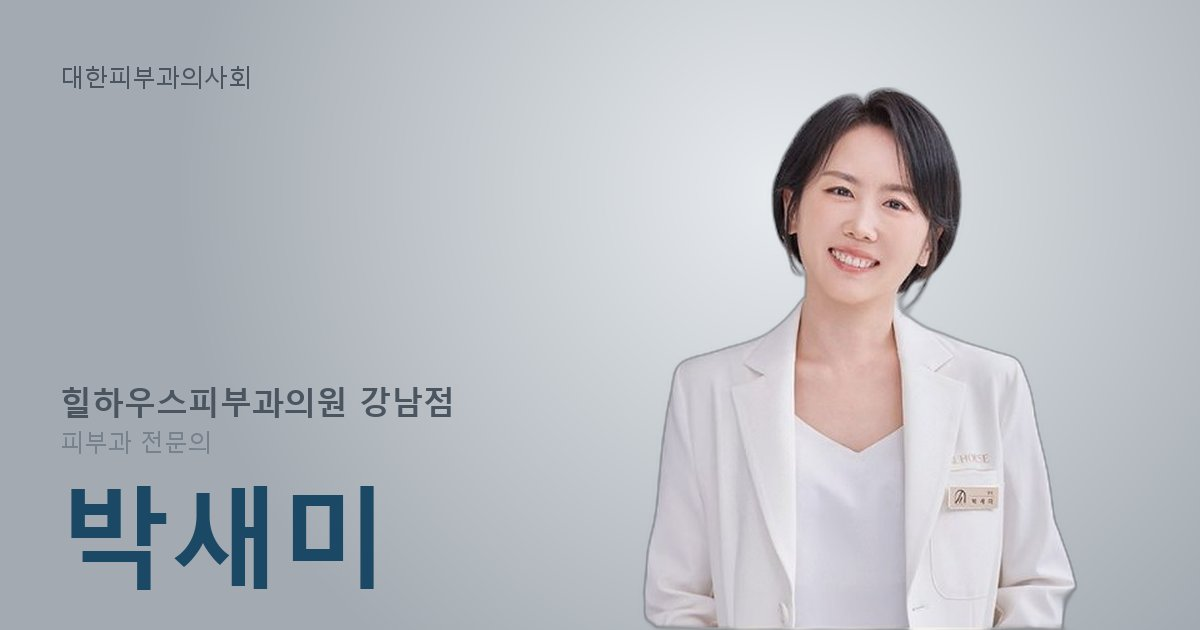
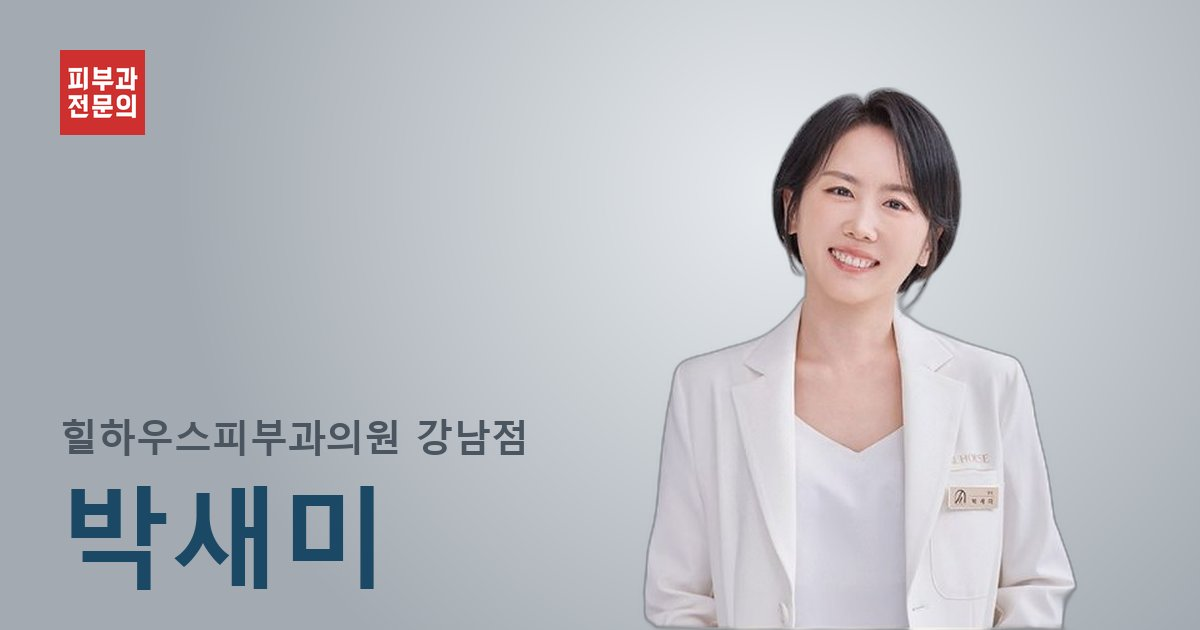
OG 이미지 디자인 개선 + 정한미 SNS 추가
OG 이미지 재디자인:
- 의사: 좌상단 텍스트 → 빨간 피부과 전문의 배지(85px), 병원명 키움, 이름 위치 조정
- 병원: 사용자 제공 흰색 AKD 로고 + 병원명만
- 홈: 밝은 배경 + AKD 로고만 (카피 텍스트 제거)

정한미 SNS 추가: 병원 홈페이지, 병원 인스타그램, 스레드

Changed region(s): [[0.0308, 0.6032, 0.4625, 0.7238], [0.0308, 0.0603, 0.2158, 0.2413]]

diff --git a/js/app.js b/js/app.js
@@ -357,8 +357,11 @@ const MEMBERS = [
     awards: [],
     treatments: ['스컬트라', '쥬브젠', '얼굴윤곽', '더엘주사', '필러', '주름', '탄력', '리프팅', '써마지', '울쎄라', '올타이트', '티타늄', '스킨부스터', '리바이브', '힐로웨이브', '레디어스', '고압산소', '여드름흉터', '문신제거'],
     links: [
+      { type: 'website', label: '병원 홈페이지', url: 'https://healhousegn.com/' },
+      { type: 'instagram', label: '병원 인스타그램', url: 'https://www.instagram.com/healhouseskin_gangnam' },
       { type: 'instagram', label: '인스타그램', url: 'https://www.instagram.com/jhanmi__' },
       { type: 'youtube', label: '유튜브', url: 'https://youtube.com/@pibutenten' },
+      { type: 'threads', label: '스레드', url: 'https://www.threads.com/@jhanmi__' },
       { type: 'website', label: '블로그', url: 'https://blog.naver.com/one_crafter' }
     ]
   },

diff --git a/clinic/foret/index.html b/clinic/foret/index.html
@@ -23,7 +23,7 @@
   <link href="https://fonts.googleapis.com/css2?family=Noto+Sans+KR:wght@300;400;500;600;700;800&display=swap" rel="stylesheet">
   <link rel="stylesheet" href="https://unpkg.com/leaflet@1.9.4/dist/leaflet.css" />
   <link rel="stylesheet" href="https://cdnjs.cloudflare.com/ajax/libs/font-awesome/6.5.1/css/all.min.css" />
-  <link rel="stylesheet" href="css/style.css?v=20260501c">
+  <link rel="stylesheet" href="css/style.css?v=20260501d">
 </head>
 <body>
   <!-- Navigation -->
@@ -57,6 +57,6 @@
   </footer>
 
   <script src="https://unpkg.com/leaflet@1.9.4/dist/leaflet.js"></script>
-  <script src="js/app.js?v=20260501c"></script>
+  <script src="js/app.js?v=20260501d"></script>
 </body>
 </html>

diff --git a/clinic/healhouse-gangnam/index.html b/clinic/healhouse-gangnam/index.html
@@ -23,7 +23,7 @@
   <link href="https://fonts.googleapis.com/css2?family=Noto+Sans+KR:wght@300;400;500;600;700;800&display=swap" rel="stylesheet">
   <link rel="stylesheet" href="https://unpkg.com/leaflet@1.9.4/dist/leaflet.css" />
   <link rel="stylesheet" href="https://cdnjs.cloudflare.com/ajax/libs/font-awesome/6.5.1/css/all.min.css" />
-  <link rel="stylesheet" href="css/style.css?v=20260501c">
+  <link rel="stylesheet" href="css/style.css?v=20260501d">
 </head>
 <body>
   <!-- Navigation -->
@@ -57,6 +57,6 @@
   </footer>
 
   <script src="https://unpkg.com/leaflet@1.9.4/dist/leaflet.js"></script>
-  <script src="js/app.js?v=20260501c"></script>
+  <script src="js/app.js?v=20260501d"></script>
 </body>
 </html>

diff --git a/clinic/hev-sinsa/index.html b/clinic/hev-sinsa/index.html
@@ -23,7 +23,7 @@
   <link href="https://fonts.googleapis.com/css2?family=Noto+Sans+KR:wght@300;400;500;600;700;800&display=swap" rel="stylesheet">
   <link rel="stylesheet" href="https://unpkg.com/leaflet@1.9.4/dist/leaflet.css" />
   <link rel="stylesheet" href="https://cdnjs.cloudflare.com/ajax/libs/font-awesome/6.5.1/css/all.min.css" />
-  <link rel="stylesheet" href="css/style.css?v=20260501c">
+  <link rel="stylesheet" href="css/style.css?v=20260501d">
 </head>
 <body>
   <!-- Navigation -->
@@ -57,6 +57,6 @@
   </footer>
 
   <script src="https://unpkg.com/leaflet@1.9.4/dist/leaflet.js"></script>
-  <script src="js/app.js?v=20260501c"></script>
+  <script src="js/app.js?v=20260501d"></script>
 </body>
 </html>

diff --git a/clinic/human-pyeongtaek/index.html b/clinic/human-pyeongtaek/index.html
@@ -23,7 +23,7 @@
   <link href="https://fonts.googleapis.com/css2?family=Noto+Sans+KR:wght@300;400;500;600;700;800&display=swap" rel="stylesheet">
   <link rel="stylesheet" href="https://unpkg.com/leaflet@1.9.4/dist/leaflet.css" />
   <link rel="stylesheet" href="https://cdnjs.cloudflare.com/ajax/libs/font-awesome/6.5.1/css/all.min.css" />
-  <link rel="stylesheet" href="css/style.css?v=20260501c">
+  <link rel="stylesheet" href="css/style.css?v=20260501d">
 </head>
 <body>
   <!-- Navigation -->
@@ -57,6 +57,6 @@
   </footer>
 
   <script src="https://unpkg.com/leaflet@1.9.4/dist/leaflet.js"></script>
-  <script src="js/app.js?v=20260501c"></script>
+  <script src="js/app.js?v=20260501d"></script>
 </body>
 </html>

diff --git a/clinic/vos/index.html b/clinic/vos/index.html
@@ -23,7 +23,7 @@
   <link href="https://fonts.googleapis.com/css2?family=Noto+Sans+KR:wght@300;400;500;600;700;800&display=swap" rel="stylesheet">
   <link rel="stylesheet" href="https://unpkg.com/leaflet@1.9.4/dist/leaflet.css" />
   <link rel="stylesheet" href="https://cdnjs.cloudflare.com/ajax/libs/font-awesome/6.5.1/css/all.min.css" />
-  <link rel="stylesheet" href="css/style.css?v=20260501c">
+  <link rel="stylesheet" href="css/style.css?v=20260501d">
 </head>
 <body>
   <!-- Navigation -->
@@ -57,6 +57,6 @@
   </footer>
 
   <script src="https://unpkg.com/leaflet@1.9.4/dist/leaflet.js"></script>
-  <script src="js/app.js?v=20260501c"></script>
+  <script src="js/app.js?v=20260501d"></script>
 </body>
 </html>

diff --git a/dermatologist/bae-jungmin/index.html b/dermatologist/bae-jungmin/index.html
@@ -23,7 +23,7 @@
   <link href="https://fonts.googleapis.com/css2?family=Noto+Sans+KR:wght@300;400;500;600;700;800&display=swap" rel="stylesheet">
   <link rel="stylesheet" href="https://unpkg.com/leaflet@1.9.4/dist/leaflet.css" />
   <link rel="stylesheet" href="https://cdnjs.cloudflare.com/ajax/libs/font-awesome/6.5.1/css/all.min.css" />
-  <link rel="stylesheet" href="css/style.css?v=20260501c">
+  <link rel="stylesheet" href="css/style.css?v=20260501d">
 </head>
 <body>
   <!-- Navigation -->
@@ -57,6 +57,6 @@
   </footer>
 
   <script src="https://unpkg.com/leaflet@1.9.4/dist/leaflet.js"></script>
-  <script src="js/app.js?v=20260501c"></script>
+  <script src="js/app.js?v=20260501d"></script>
 </body>
 </html>

diff --git a/dermatologist/gye-jiwon/index.html b/dermatologist/gye-jiwon/index.html
@@ -23,7 +23,7 @@
   <link href="https://fonts.googleapis.com/css2?family=Noto+Sans+KR:wght@300;400;500;600;700;800&display=swap" rel="stylesheet">
   <link rel="stylesheet" href="https://unpkg.com/leaflet@1.9.4/dist/leaflet.css" />
   <link rel="stylesheet" href="https://cdnjs.cloudflare.com/ajax/libs/font-awesome/6.5.1/css/all.min.css" />
-  <link rel="stylesheet" href="css/style.css?v=20260501c">
+  <link rel="stylesheet" href="css/style.css?v=20260501d">
 </head>
 <body>
   <!-- Navigation -->
@@ -57,6 +57,6 @@
   </footer>
 
   <script src="https://unpkg.com/leaflet@1.9.4/dist/leaflet.js"></script>
-  <script src="js/app.js?v=20260501c"></script>
+  <script src="js/app.js?v=20260501d"></script>
 </body>
 </html>

diff --git a/dermatologist/jung-hanmi/index.html b/dermatologist/jung-hanmi/index.html
@@ -23,7 +23,7 @@
   <link href="https://fonts.googleapis.com/css2?family=Noto+Sans+KR:wght@300;400;500;600;700;800&display=swap" rel="stylesheet">
   <link rel="stylesheet" href="https://unpkg.com/leaflet@1.9.4/dist/leaflet.css" />
   <link rel="stylesheet" href="https://cdnjs.cloudflare.com/ajax/libs/font-awesome/6.5.1/css/all.min.css" />
-  <link rel="stylesheet" href="css/style.css?v=20260501c">
+  <link rel="stylesheet" href="css/style.css?v=20260501d">
 </head>
 <body>
   <!-- Navigation -->
@@ -57,6 +57,6 @@
   </footer>
 
   <script src="https://unpkg.com/leaflet@1.9.4/dist/leaflet.js"></script>
-  <script src="js/app.js?v=20260501c"></script>
+  <script src="js/app.js?v=20260501d"></script>
 </body>
 </html>

diff --git a/dermatologist/jung-jongheon/index.html b/dermatologist/jung-jongheon/index.html
@@ -23,7 +23,7 @@
   <link href="https://fonts.googleapis.com/css2?family=Noto+Sans+KR:wght@300;400;500;600;700;800&display=swap" rel="stylesheet">
   <link rel="stylesheet" href="https://unpkg.com/leaflet@1.9.4/dist/leaflet.css" />
   <link rel="stylesheet" href="https://cdnjs.cloudflare.com/ajax/libs/font-awesome/6.5.1/css/all.min.css" />
-  <link rel="stylesheet" href="css/style.css?v=20260501c">
+  <link rel="stylesheet" href="css/style.css?v=20260501d">
 </head>
 <body>
   <!-- Navigation -->
@@ -57,6 +57,6 @@
   </footer>
 
   <script src="https://unpkg.com/leaflet@1.9.4/dist/leaflet.js"></script>
-  <script src="js/app.js?v=20260501c"></script>
+  <script src="js/app.js?v=20260501d"></script>
 </body>
 </html>

diff --git a/dermatologist/kim-hongseok/index.html b/dermatologist/kim-hongseok/index.html
@@ -23,7 +23,7 @@
   <link href="https://fonts.googleapis.com/css2?family=Noto+Sans+KR:wght@300;400;500;600;700;800&display=swap" rel="stylesheet">
   <link rel="stylesheet" href="https://unpkg.com/leaflet@1.9.4/dist/leaflet.css" />
   <link rel="stylesheet" href="https://cdnjs.cloudflare.com/ajax/libs/font-awesome/6.5.1/css/all.min.css" />
-  <link rel="stylesheet" href="css/style.css?v=20260501c">
+  <link rel="stylesheet" href="css/style.css?v=20260501d">
 </head>
 <body>
   <!-- Navigation -->
@@ -57,6 +57,6 @@
   </footer>
 
   <script src="https://unpkg.com/leaflet@1.9.4/dist/leaflet.js"></script>
-  <script src="js/app.js?v=20260501c"></script>
+  <script src="js/app.js?v=20260501d"></script>
 </body>
 </html>

diff --git a/dermatologist/lee-haeun/index.html b/dermatologist/lee-haeun/index.html
@@ -23,7 +23,7 @@
   <link href="https://fonts.googleapis.com/css2?family=Noto+Sans+KR:wght@300;400;500;600;700;800&display=swap" rel="stylesheet">
   <link rel="stylesheet" href="https://unpkg.com/leaflet@1.9.4/dist/leaflet.css" />
   <link rel="stylesheet" href="https://cdnjs.cloudflare.com/ajax/libs/font-awesome/6.5.1/css/all.min.css" />
-  <link rel="stylesheet" href="css/style.css?v=20260501c">
+  <link rel="stylesheet" href="css/style.css?v=20260501d">
 </head>
 <body>
   <!-- Navigation -->
@@ -57,6 +57,6 @@
   </footer>
 
   <script src="https://unpkg.com/leaflet@1.9.4/dist/leaflet.js"></script>
-  <script src="js/app.js?v=20260501c"></script>
+  <script src="js/app.js?v=20260501d"></script>
 </body>
 </html>
